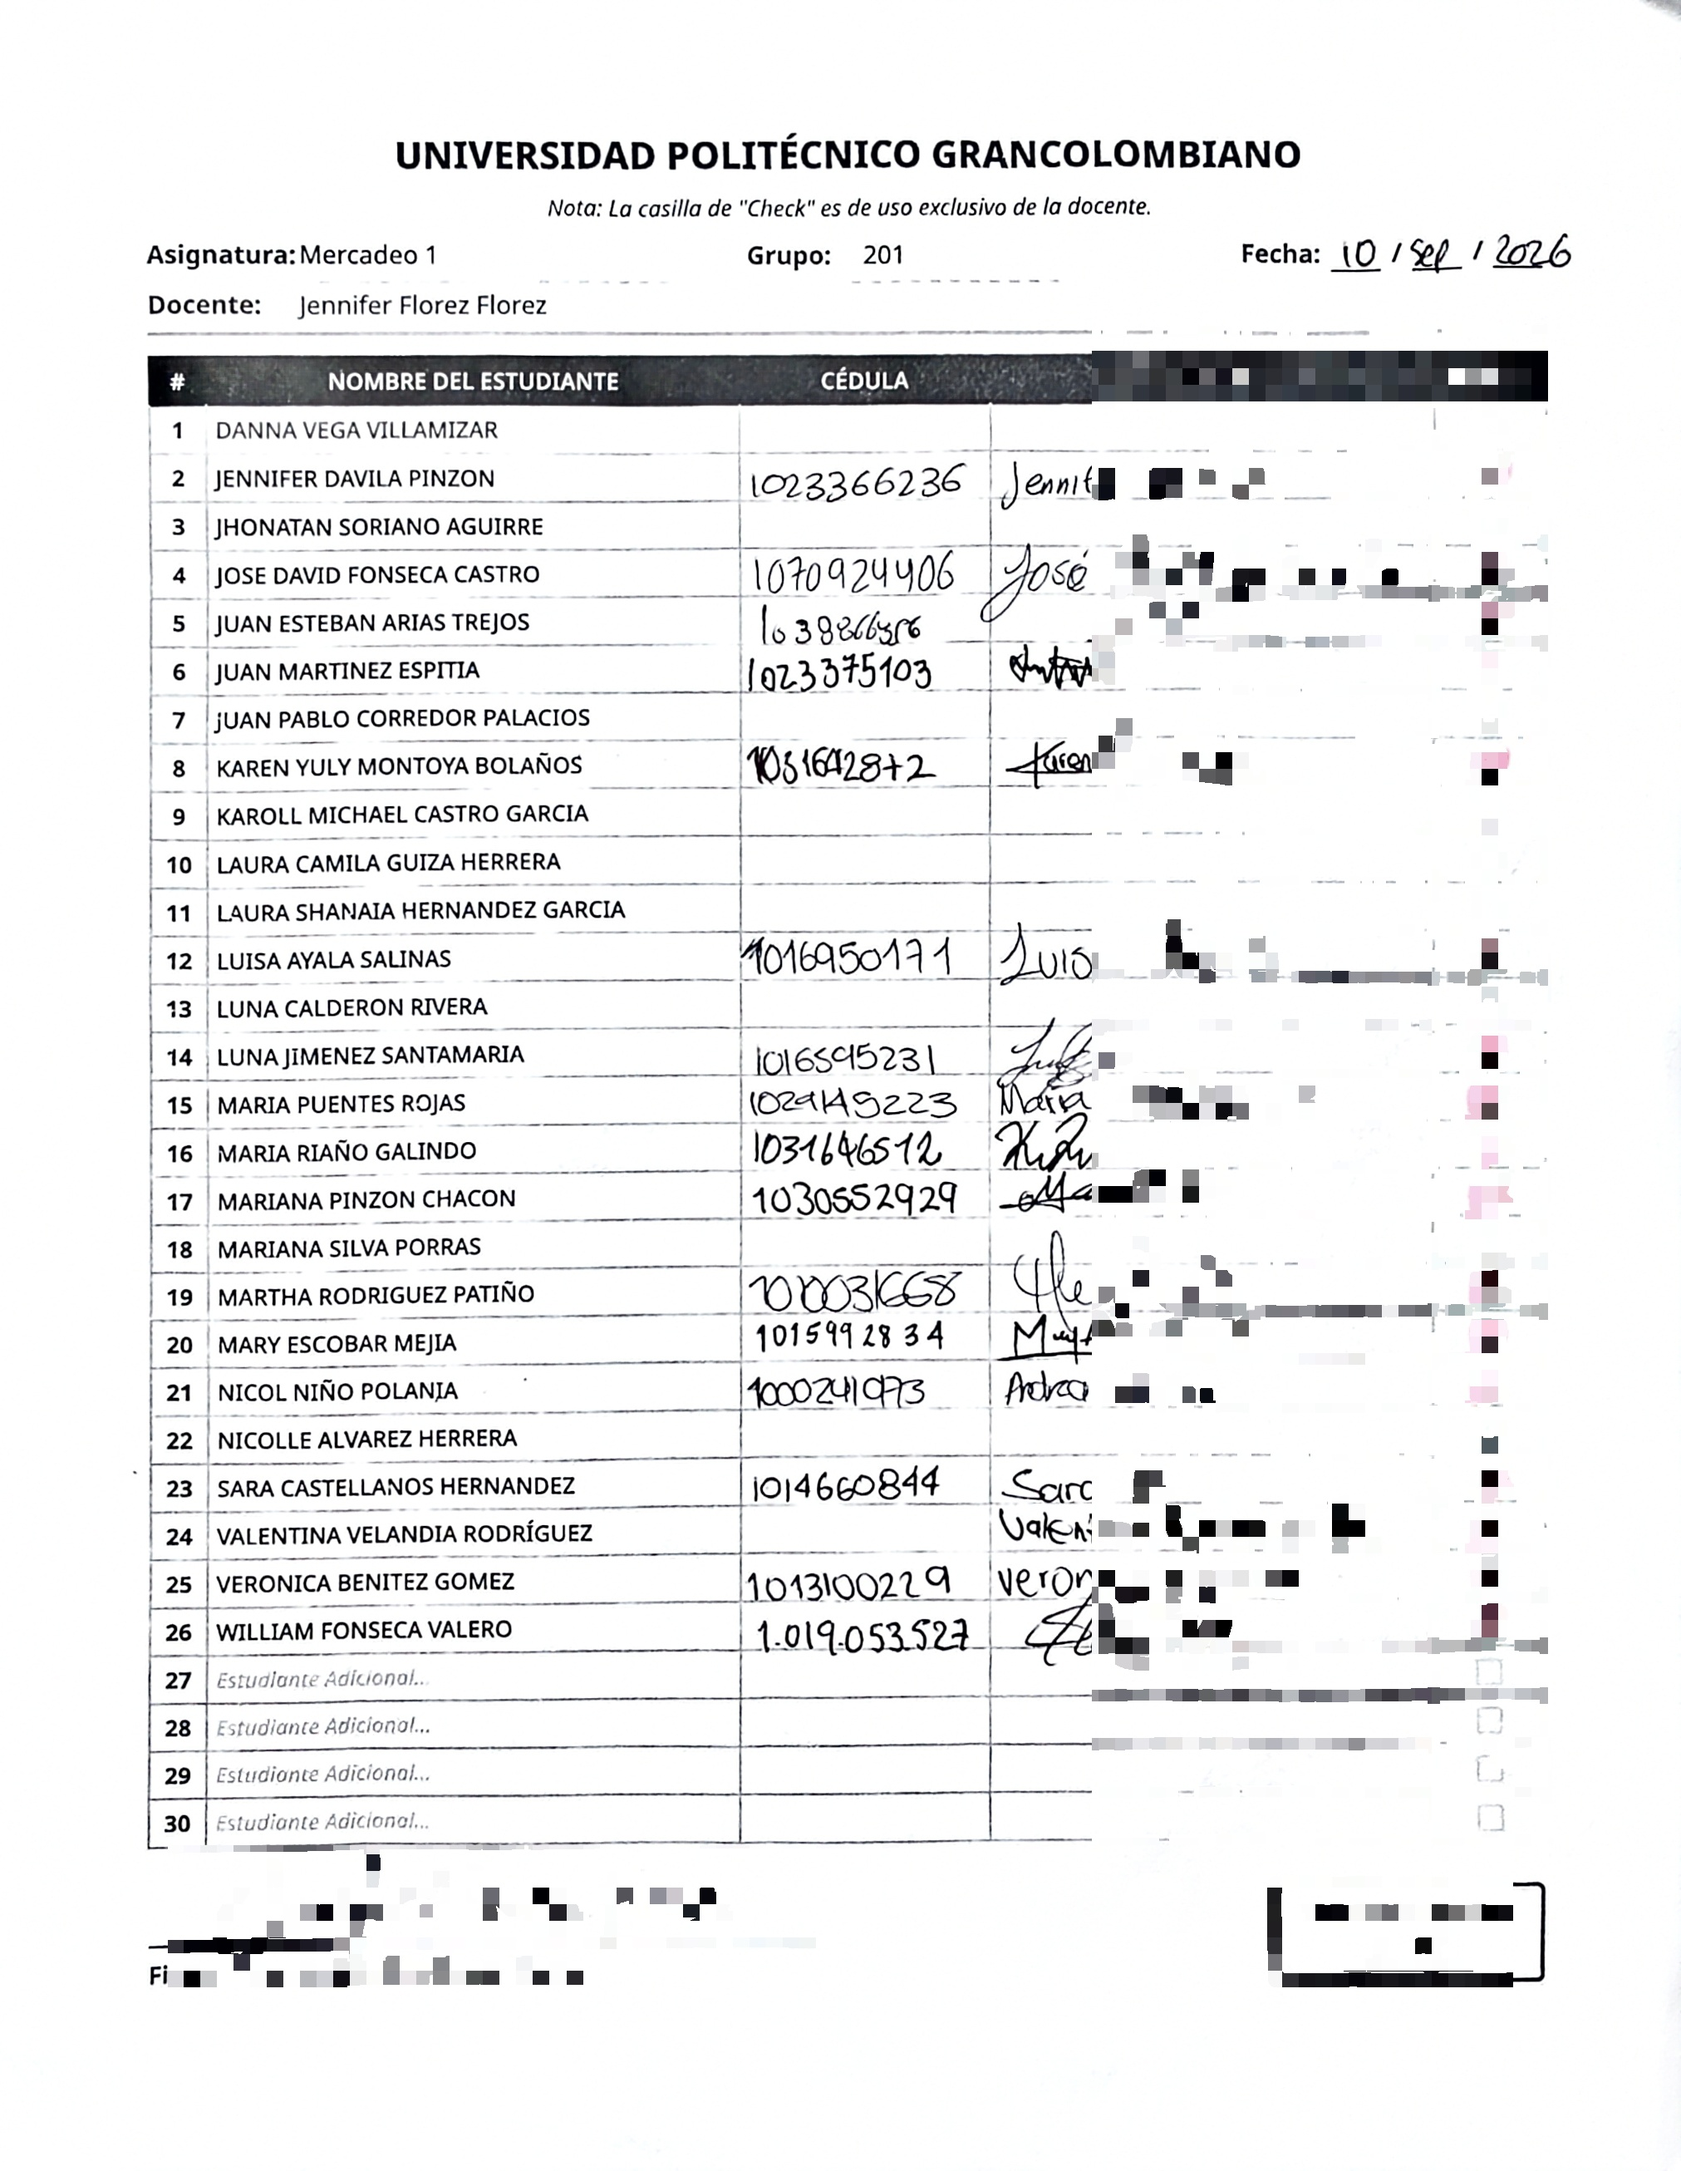
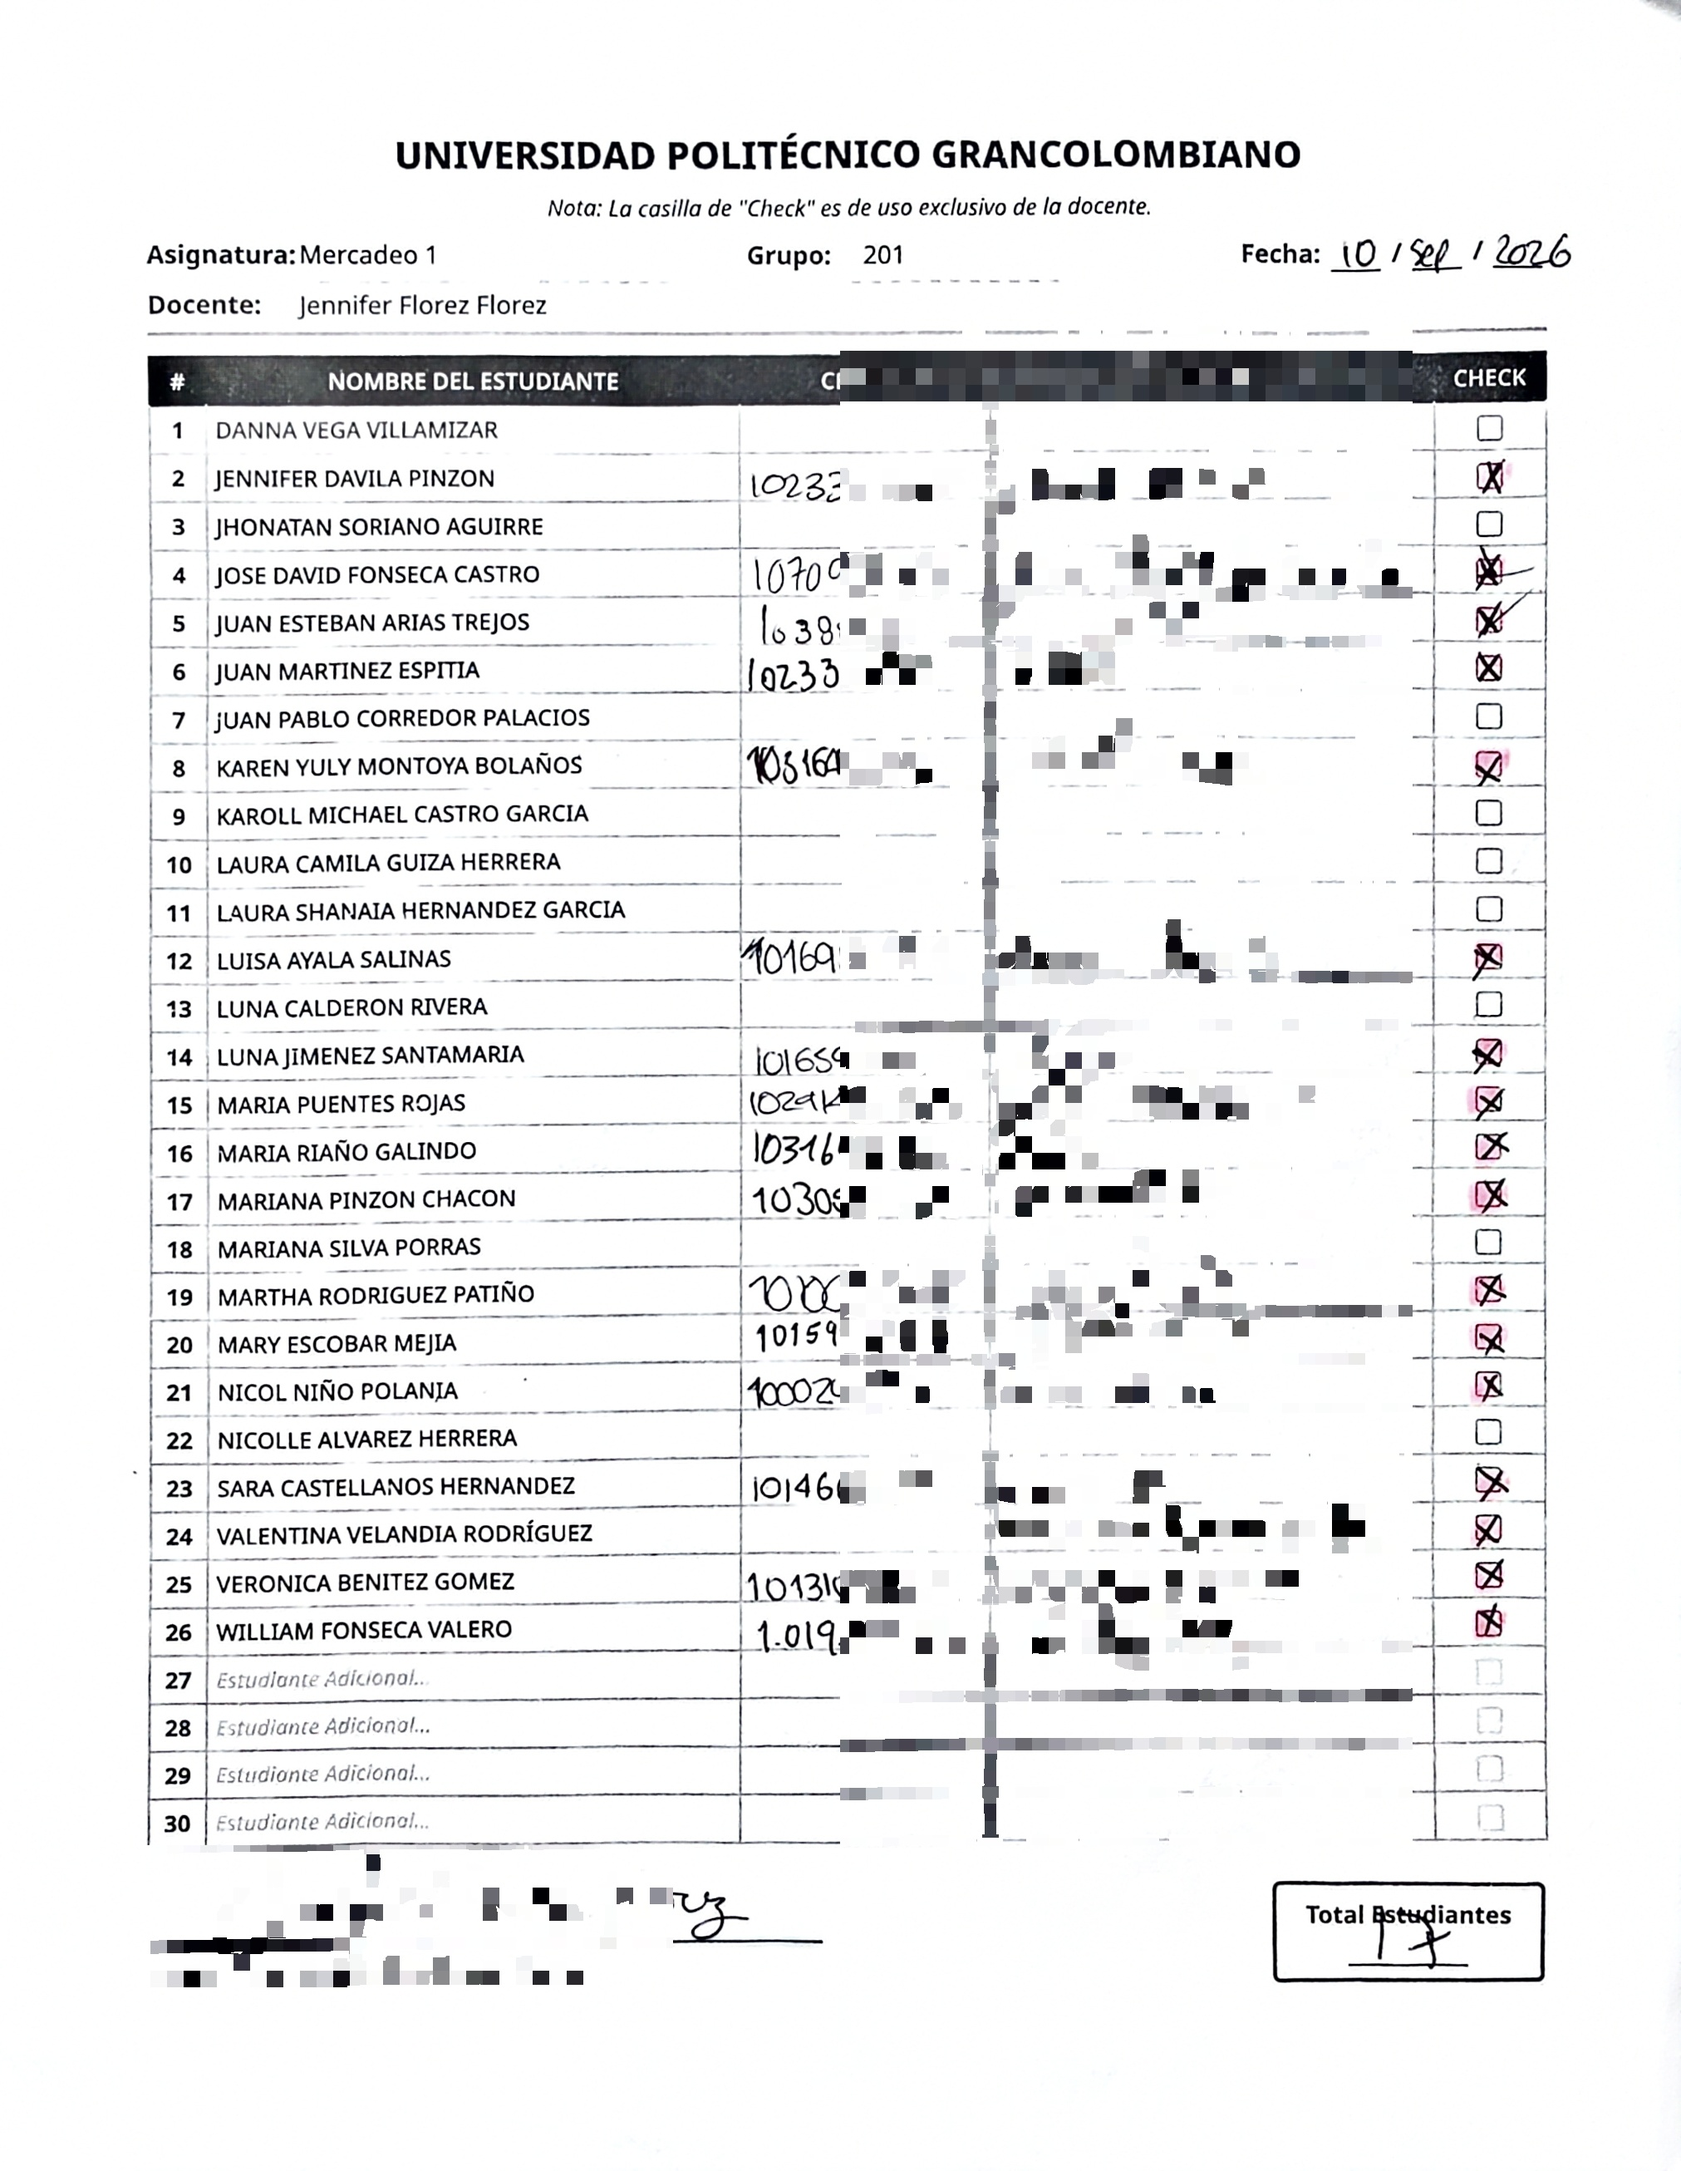
Fix: Coordenadas de anonimizacion exactas gracias a Vision por computadora

Changed region(s): [[0.4983, 0.1551, 0.654, 0.8373], [0.7474, 0.1551, 0.9343, 0.9303], [0.4048, 0.8683, 0.436, 0.8993]]

diff --git a/Docs/anonymize.py b/Docs/anonymize.py
@@ -3,80 +3,70 @@ import numpy as np
 import os
 import glob
 
-def pixelate_image(image, blocks=15):
+def pixelate_image(image, blocks=20):
     h, w = image.shape[:2]
     if h == 0 or w == 0: return image
-    # Reducir imagen fuertemente
     small = cv2.resize(image, (max(1, w//blocks), max(1, h//blocks)), interpolation=cv2.INTER_LINEAR)
-    # Volver a ampliarla usando NEAREST para crear el efecto mosaico/pixelado
     pixelated = cv2.resize(small, (w, h), interpolation=cv2.INTER_NEAREST)
     return pixelated
 
 def process_attendance_list(image_path, output_path):
+    filename = os.path.basename(image_path)
     img = cv2.imread(image_path)
     if img is None:
         print(f"Error: No se pudo leer {image_path}")
         return
 
     h, w = img.shape[:2]
-
-    # Convertir a escala de grises
     gray = cv2.cvtColor(img, cv2.COLOR_BGR2GRAY)
     
-    # 1. Encontrar la "tinta" (texto escrito) usando un threshold
-    # Papel blanco (~255), tinta oscura (< 150)
+    # 1. Encontrar la "tinta"
     _, ink_mask = cv2.threshold(gray, 150, 255, cv2.THRESH_BINARY_INV)
-
-    # Dilatar la máscara para abarcar los trazos completos y no dejar bordes nítidos
     kernel = np.ones((5,5), np.uint8)
     ink_mask = cv2.dilate(ink_mask, kernel, iterations=3)
 
-    # 2. Generar versión pixelada de toda la imagen
-    pixelated_full = pixelate_image(img, blocks=20) # Nivel de pixelado alto
+    pixelated_full = pixelate_image(img, blocks=20)
 
-    # 3. Definir Zonas Sensibles (Cajas delimitadoras relativas a la hoja)
+    # 3. Definir Zonas Sensibles
     zone_mask = np.zeros_like(ink_mask)
     
-    # ZONA A: Estudiantes (Cédula mitad derecha y Firma completa)
-    # Suponiendo que Cédula y firma están en el lado derecho de la hoja (x: 65% a 95%)
-    # y excluyendo el encabezado (y: 15% a 85%)
-    cv2.rectangle(zone_mask, (int(w*0.65), int(h*0.15)), (int(w*0.95), int(h*0.85)), 255, -1)
-    
-    # ZONA B: Firma Docente
-    # Suponiendo que firma al final de la página, centrada (bottom 15%)
-    cv2.rectangle(zone_mask, (int(w*0.1), int(h*0.85)), (int(w*0.9), int(h*0.98)), 255, -1)
+    # Lógica especial para la primera lista que fue a mano alzada
+    if "01. Aug 06" in filename:
+        # Mitad de las cédulas
+        cv2.rectangle(zone_mask, (int(w*0.75), int(h*0.10)), (int(w*0.85), int(h*0.65)), 255, -1)
+        # Firma Docente (Centro Abajo)
+        cv2.rectangle(zone_mask, (int(w*0.50), int(h*0.65)), (int(w*0.85), int(h*0.85)), 255, -1)
+    else:
+        # Lógica para las listas impresas en formato tabla estándar
+        
+        # ZONA A: Mitad derecha de la CÉDULA + Columna FIRMA completa
+        # Cédula está ~43-58%. Firma está ~58-85%. 
+        # Mitad de cédula a fin de firma = 50% a 84%.
+        # Protegemos <50% (nombres y primer plano de cédula) y >84% (columna de Checks).
+        cv2.rectangle(zone_mask, (int(w*0.50), int(h*0.15)), (int(w*0.84), int(h*0.85)), 255, -1)
+        
+        # ZONA B: Firma Docente
+        # En la plantilla impresa, la firma está abajo a la izquierda (5% a 40%).
+        # Protegemos el cuadro de 'Total Estudiantes' que está a la derecha.
+        cv2.rectangle(zone_mask, (int(w*0.05), int(h*0.85)), (int(w*0.40), int(h*0.98)), 255, -1)
 
-    # 4. Intersecar: Solo pixelaremos donde haya TINTA y esté dentro de la ZONA SENSIBLE
+    # Intersecar máscara de zona con la tinta
     final_mask = cv2.bitwise_and(zone_mask, ink_mask)
-
-    # Convertir máscara a 3 canales para mezclarla con la imagen a color
     final_mask_3c = cv2.cvtColor(final_mask, cv2.COLOR_GRAY2BGR)
 
-    # 5. Aplicar la pixelación solo en la máscara resultante
-    # Si la celda está vacía (no hay tinta), final_mask será 0, por ende se conserva el pixel original (blanco)
+    # Mezclar y guardar
     result = np.where(final_mask_3c == 255, pixelated_full, img)
-
     cv2.imwrite(output_path, result)
-    print(f"Anonimizada y guardada: {os.path.basename(output_path)}")
+    print(f"Anonimizada y guardada: {filename}")
 
 def main():
     raw_dir = os.path.join(os.path.dirname(__file__), '..', 'Assents', 'Listas_Crudas')
     out_dir = os.path.join(os.path.dirname(__file__), '..', 'Assents', 'Listas')
-    
     os.makedirs(out_dir, exist_ok=True)
     
     files = glob.glob(os.path.join(raw_dir, '*.jpg'))
-    if not files:
-        print(f"No se encontraron imágenes en {raw_dir}")
-        return
-
-    print(f"Iniciando anonimización de {len(files)} listas...")
     for file in files:
-        filename = os.path.basename(file)
-        out_path = os.path.join(out_dir, filename)
-        process_attendance_list(file, out_path)
-    
-    print("¡Proceso completado exitosamente!")
+        process_attendance_list(file, os.path.join(out_dir, os.path.basename(file)))
 
 if __name__ == '__main__':
     main()

diff --git a/Docs/smart_detect.py b/Docs/smart_detect.py
@@ -1,0 +1,45 @@
+import cv2
+import numpy as np
+import glob
+import sys
+
+def test_grid():
+    files = glob.glob('Assents/Listas_Crudas/*.jpg')
+    print(f"Archivos encontrados: {len(files)}")
+    for file in files:
+        img = cv2.imread(file)
+        if img is None:
+            print("No se pudo leer", file)
+            continue
+        gray = cv2.cvtColor(img, cv2.COLOR_BGR2GRAY)
+        _, thresh = cv2.threshold(gray, 150, 255, cv2.THRESH_BINARY_INV)
+        
+        # Dilate to enhance lines
+        kernel = np.ones((5,1), np.uint8)
+        thresh = cv2.dilate(thresh, kernel, iterations=1)
+        
+        # Vertical lines
+        ver_kernel = cv2.getStructuringElement(cv2.MORPH_RECT, (1, int(img.shape[0]*0.1))) # 10% height minimum
+        vertical_lines = cv2.morphologyEx(thresh, cv2.MORPH_OPEN, ver_kernel, iterations=2)
+        
+        cnts, _ = cv2.findContours(vertical_lines, cv2.RETR_EXTERNAL, cv2.CHAIN_APPROX_SIMPLE)
+        
+        x_coords = []
+        for c in cnts:
+            x, y, w, h = cv2.boundingRect(c)
+            if h > img.shape[0] * 0.3: # Must be at least 30% of image height
+                x_coords.append(x)
+                
+        x_coords = sorted(x_coords)
+        clean_x = []
+        for x in x_coords:
+            if not clean_x or x - clean_x[-1] > 30:
+                clean_x.append(x)
+                
+        print(f"{file}: Found {len(clean_x)} vertical lines at: {clean_x}")
+        # Calculate widths percentages
+        w_img = img.shape[1]
+        pcts = [round(x/w_img*100, 1) for x in clean_x]
+        print(f"  Percentages: {pcts}")
+
+test_grid()

diff --git a/Docs/test_mask.py b/Docs/test_mask.py
@@ -1,0 +1,46 @@
+import cv2
+import numpy as np
+import os
+import glob
+
+def generate_test_masks():
+    raw_dir = os.path.join(os.path.dirname(__file__), '..', 'Assents', 'Listas_Crudas')
+    out_dir = os.path.join(os.path.dirname(__file__), '..', 'Assents', 'Listas_Prueba')
+    os.makedirs(out_dir, exist_ok=True)
+    
+    files = glob.glob(os.path.join(raw_dir, '*.jpg'))
+    
+    for file in files:
+        img = cv2.imread(file)
+        if img is None: continue
+        h, w = img.shape[:2]
+        
+        # Vamos a pintar en rojo lo que se va a pixelar
+        overlay = img.copy()
+        
+        # ZONA: Mitad derecha de cédula + Firma (Ajustado)
+        # Intentemos de 52% a 80% del ancho, para evitar los checks a la derecha (>80%)
+        # y evitar el total de asistentes (bottom right).
+        x1 = int(w * 0.52)
+        x2 = int(w * 0.82)
+        y1 = int(h * 0.15)
+        y2 = int(h * 0.85)
+        cv2.rectangle(overlay, (x1, y1), (x2, y2), (0, 0, 255), -1) # Rojo
+        
+        # ZONA: Firma Docente (Ajustado al centro abajo)
+        tx1 = int(w * 0.20)
+        tx2 = int(w * 0.80)
+        ty1 = int(h * 0.85)
+        ty2 = int(h * 0.98)
+        cv2.rectangle(overlay, (tx1, ty1), (tx2, ty2), (0, 0, 255), -1)
+        
+        # Transparencia
+        alpha = 0.4
+        cv2.addWeighted(overlay, alpha, img, 1 - alpha, 0, img)
+        
+        filename = os.path.basename(file)
+        cv2.imwrite(os.path.join(out_dir, filename), img)
+        print(f"Prueba generada: {filename}")
+
+if __name__ == '__main__':
+    generate_test_masks()
